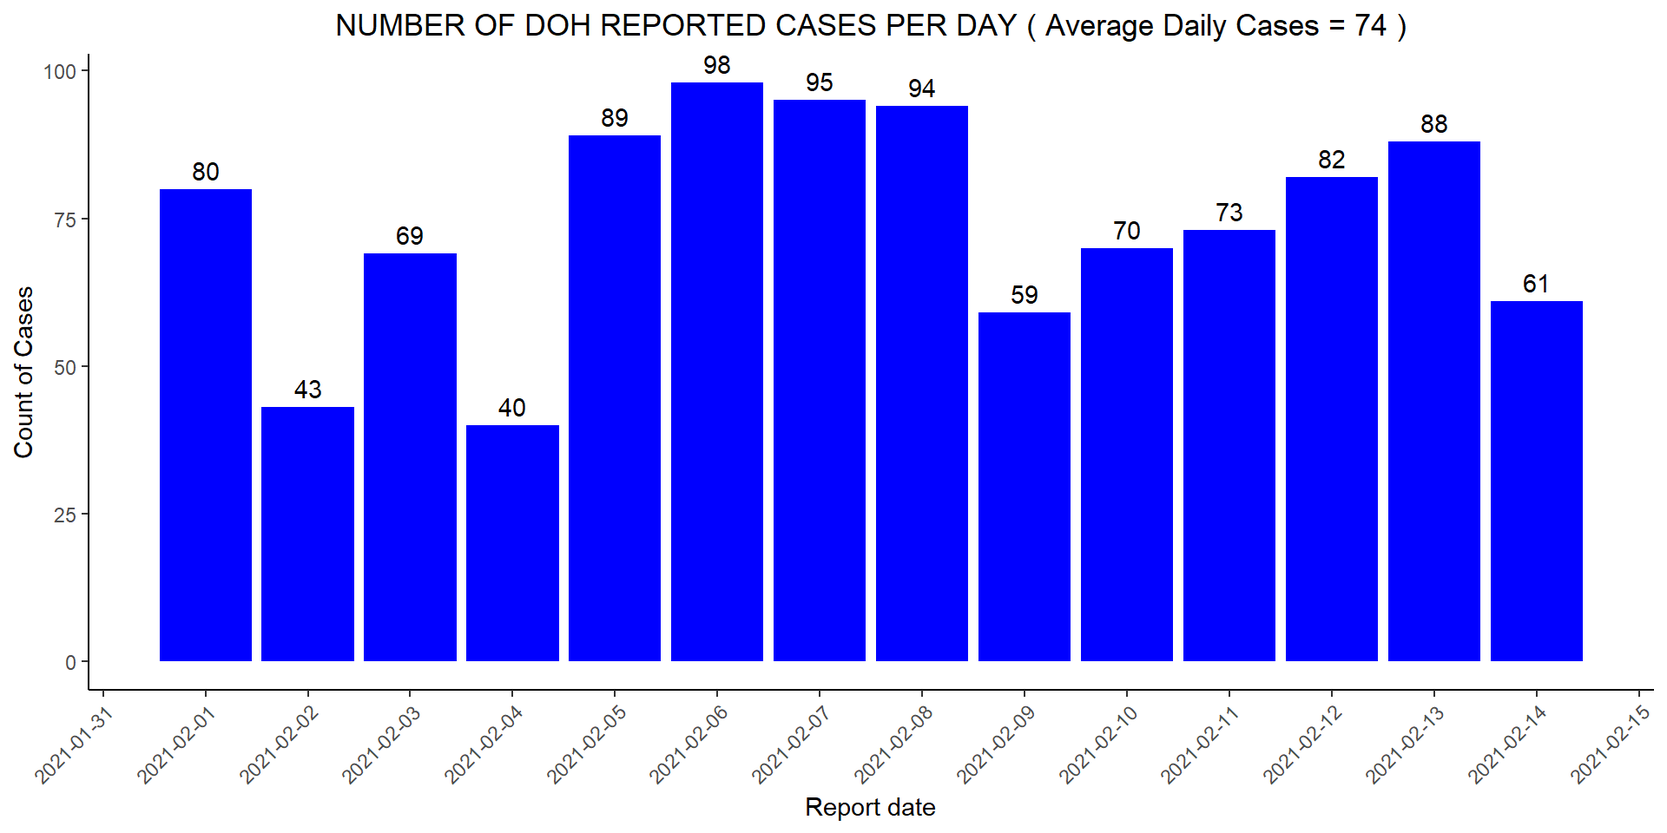
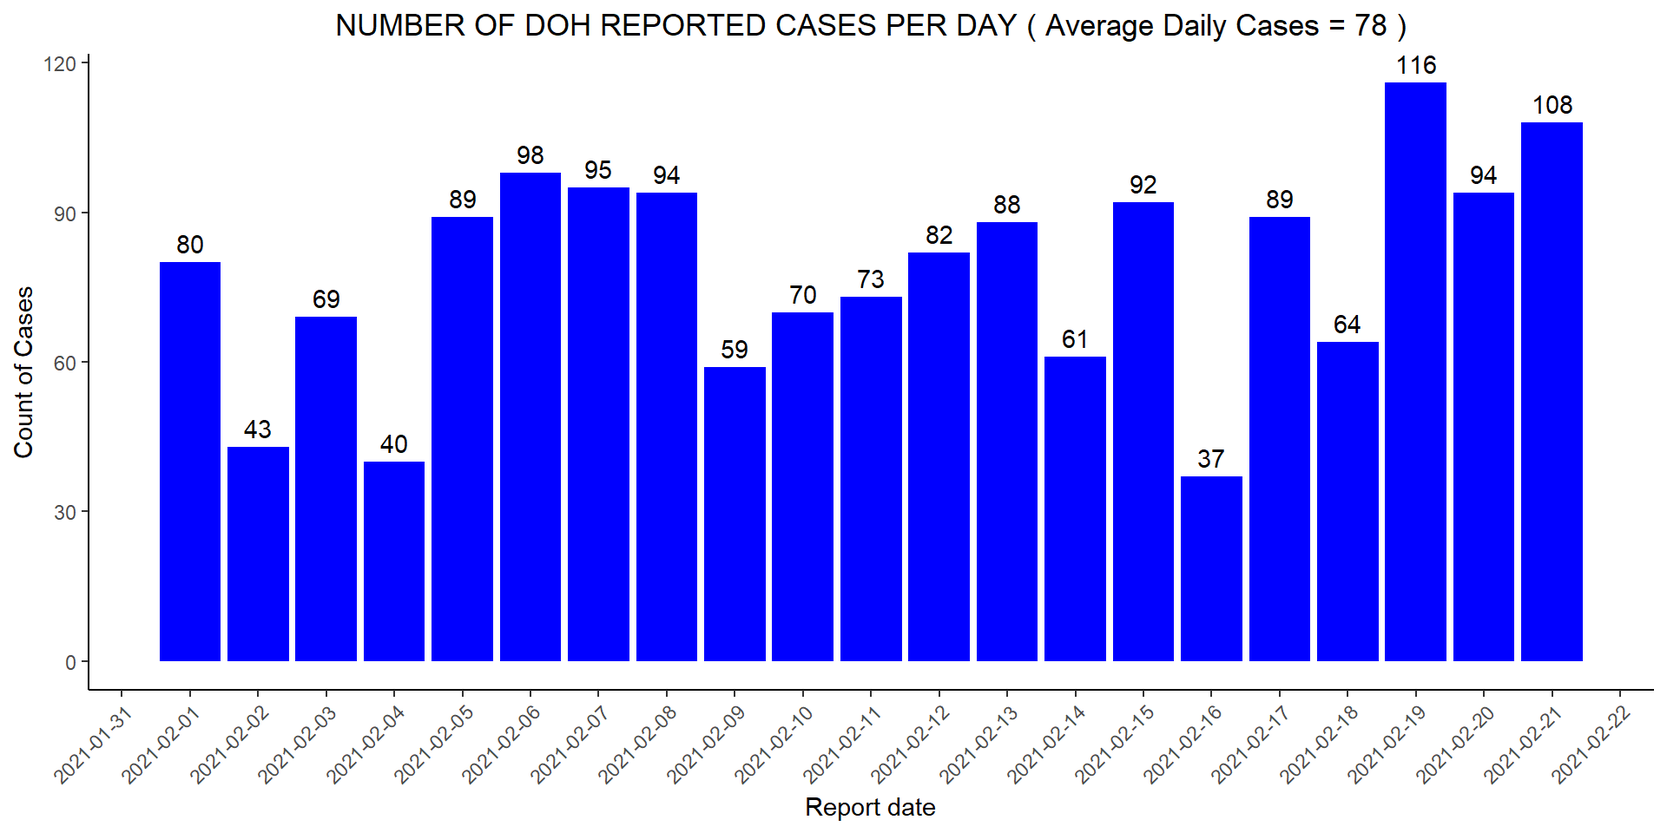
update

diff --git a/docs/index.html b/docs/index.html
@@ -407,62 +407,60 @@ div.tocify {
 <h2 class="tabset">Monitoring of Reported Cases</h2>
 <div id="daily-count" class="section level3">
 <h3>Daily Count</h3>
-<p>Last refreshed date : 02/22/2021 18:46:36</p>
+<p>Last refreshed date : 02/24/2021 09:17:45</p>
 <ul>
-<li>Total number of Reported Cases : 283
+<li>Total number of Reported Cases : 42
 <ul>
-<li>Total number of Endorsed Cases to Field Team: 149</li>
-<li>Total Number of Out of City Cases : 7</li>
-<li>Total Number of Already Visited by CESU : 6</li>
-<li>Total Number of Pending : 71
+<li>Total number of Endorsed Cases to Field Team: 0</li>
+<li>Total Number of Out of City Cases : 0</li>
+<li>Total Number of Already Visited by CESU : 0</li>
+<li>Total Number of Pending : 42
 <ul>
-<li>Confirmed cases : 4</li>
+<li>Confirmed cases : 0</li>
 <li>Probable cases : 0</li>
-<li>Suspect cases : 67</li>
+<li>Suspect cases : 42</li>
 </ul></li>
-<li>Total Number of Unable to contact : 41
+<li>Total Number of Unable to contact : 0
 <ul>
-<li>Total Number of Wrong number : 13</li>
-<li>Total Number of Cannot be reached : 17</li>
-<li>Total Number of Dropped call : 2</li>
-<li>Total Number of Wrong person : 1</li>
-<li>Total Number of Not answering the phone : 8</li>
+<li>Count of Wrong number : 0</li>
+<li>Total Number of Cannot be reached : 0</li>
+<li>Total Number of Dropped call : 0</li>
+<li>Total Number of Wrong person : 0</li>
+<li>Total Number of Not answering the phone : 0</li>
 </ul></li>
-<li>Total number of confirmed cases with no number indicated: 1</li>
+<li>Total number of confirmed cases with no number indicated: 0</li>
 </ul></li>
 </ul>
 <p>Below is the cumulative count of reported cases today distributed by patient classification</p>
-<div id="htmlwidget-8755db3c0fa2aa84a51e" style="width:100%;height:auto;" class="datatables html-widget"></div>
-<script type="application/json" data-for="htmlwidget-8755db3c0fa2aa84a51e">{"x":{"filter":"bottom","filterHTML":"<tr>\n  <td data-type=\"character\" style=\"vertical-align: top;\">\n    <div style=\"margin-bottom: auto;\">\n      <input type=\"text\" placeholder=\"All\" style=\"width: 100%;\"/>\n    <\/div>\n  <\/td>\n  <td data-type=\"integer\" style=\"vertical-align: top;\">\n    <div style=\"margin-bottom: auto;\">\n      <input type=\"text\" placeholder=\"All\" style=\"width: 100%;\"/>\n    <\/div>\n    <div style=\"display: none; position: absolute; width: 200px;\">\n      <div data-min=\"112\" data-max=\"171\"><\/div>\n      <span style=\"float: left;\"><\/span>\n      <span style=\"float: right;\"><\/span>\n    <\/div>\n  <\/td>\n<\/tr>","data":[["CONFIRMED","SUSPECT"],[171,112]],"container":"<table class=\"display\">\n  <thead>\n    <tr>\n      <th>Patient classification<\/th>\n      <th>Count<\/th>\n    <\/tr>\n  <\/thead>\n<\/table>","options":{"autoWitdh":true,"columnDefs":[{"className":"dt-center","targets":"_all"}],"order":[],"autoWidth":false,"orderClasses":false}},"evals":[],"jsHooks":[]}</script>
+<div id="htmlwidget-13a20751667602078dd9" style="width:100%;height:auto;" class="datatables html-widget"></div>
+<script type="application/json" data-for="htmlwidget-13a20751667602078dd9">{"x":{"filter":"bottom","filterHTML":"<tr>\n  <td data-type=\"disabled\" style=\"vertical-align: top;\">\n    <div style=\"margin-bottom: auto;\">\n      <input type=\"text\" placeholder=\"All\" style=\"width: 100%;\"/>\n    <\/div>\n  <\/td>\n  <td data-type=\"disabled\" style=\"vertical-align: top;\">\n    <div style=\"margin-bottom: auto;\">\n      <input type=\"text\" placeholder=\"All\" style=\"width: 100%;\"/>\n    <\/div>\n  <\/td>\n<\/tr>","data":[["SUSPECT"],[42]],"container":"<table class=\"display\">\n  <thead>\n    <tr>\n      <th>Patient classification<\/th>\n      <th>Count<\/th>\n    <\/tr>\n  <\/thead>\n<\/table>","options":{"autoWitdh":true,"columnDefs":[{"className":"dt-center","targets":"_all"}],"order":[],"autoWidth":false,"orderClasses":false}},"evals":[],"jsHooks":[]}</script>
 </div>
 <div id="cumulative-count" class="section level3">
 <h3>Cumulative Count</h3>
 <ul>
-<li>Total number of Reported Cases : 1070
+<li>Total number of Reported Cases : 1318
 <ul>
-<li>Total number of Endorsed Cases to Field Team: 431</li>
-<li>Total Number of Out of City Cases : 36</li>
-<li>Total Number of Already Visited by CESU : 45</li>
-<li>Total Number of Pending : 98
-<ul>
-<li>Confirmed cases : 4</li>
+<li>Number of confirmed Cases ‘Endorsed to Field Team’ : 491</li>
+<li>Number of ‘Out of City’ confirmed Cases : 44</li>
+<li>Number of confirmed cases ‘Already Visited by CESU’ : 50</li>
+<li>Number of Pending : 108</li>
+<li>Confirmed cases : 8</li>
 <li>Probable cases : 0</li>
-<li>Suspect cases : 94</li>
-</ul></li>
-<li>Total Number of Unable to contact : 187
+<li>Suspect cases : 100</li>
+<li>Total Number of Unable to contact : 231
 <ul>
-<li>Total Number of Wrong number : 59</li>
-<li>Total Number of Cannot be reached : 75</li>
+<li>Count of Wrong number : 75</li>
+<li>Total Number of Cannot be reached : 96</li>
 <li>Total Number of Dropped call : 3</li>
-<li>Total Number of Wrong person : 9</li>
-<li>Total Number of Not answering the phone : 40</li>
+<li>Total Number of Wrong person : 12</li>
+<li>Total Number of Not answering the phone : 44</li>
 </ul></li>
-<li>Total number of confirmed cases with no number indicated: 15</li>
+<li>Total number of confirmed cases with no number indicated: 22</li>
 </ul></li>
 </ul>
 <p>Below is the cumulative count of cases distributed by patient classification since January 17, 2021</p>
-<div id="htmlwidget-8493ac3173c5b59b62d0" style="width:100%;height:auto;" class="datatables html-widget"></div>
-<script type="application/json" data-for="htmlwidget-8493ac3173c5b59b62d0">{"x":{"filter":"bottom","filterHTML":"<tr>\n  <td data-type=\"character\" style=\"vertical-align: top;\">\n    <div style=\"margin-bottom: auto;\">\n      <input type=\"text\" placeholder=\"All\" style=\"width: 100%;\"/>\n    <\/div>\n  <\/td>\n  <td data-type=\"integer\" style=\"vertical-align: top;\">\n    <div style=\"margin-bottom: auto;\">\n      <input type=\"text\" placeholder=\"All\" style=\"width: 100%;\"/>\n    <\/div>\n    <div style=\"display: none; position: absolute; width: 200px;\">\n      <div data-min=\"3\" data-max=\"543\"><\/div>\n      <span style=\"float: left;\"><\/span>\n      <span style=\"float: right;\"><\/span>\n    <\/div>\n  <\/td>\n<\/tr>","data":[["CONFIRMED","PROBABLE","SUSPECT"],[543,3,524]],"container":"<table class=\"display\">\n  <thead>\n    <tr>\n      <th>Patient classification<\/th>\n      <th>Count<\/th>\n    <\/tr>\n  <\/thead>\n<\/table>","options":{"autoWitdh":true,"columnDefs":[{"className":"dt-center","targets":"_all"}],"order":[],"autoWidth":false,"orderClasses":false}},"evals":[],"jsHooks":[]}</script>
+<div id="htmlwidget-212dfb02c5d263618b0f" style="width:100%;height:auto;" class="datatables html-widget"></div>
+<script type="application/json" data-for="htmlwidget-212dfb02c5d263618b0f">{"x":{"filter":"bottom","filterHTML":"<tr>\n  <td data-type=\"character\" style=\"vertical-align: top;\">\n    <div style=\"margin-bottom: auto;\">\n      <input type=\"text\" placeholder=\"All\" style=\"width: 100%;\"/>\n    <\/div>\n  <\/td>\n  <td data-type=\"integer\" style=\"vertical-align: top;\">\n    <div style=\"margin-bottom: auto;\">\n      <input type=\"text\" placeholder=\"All\" style=\"width: 100%;\"/>\n    <\/div>\n    <div style=\"display: none; position: absolute; width: 200px;\">\n      <div data-min=\"3\" data-max=\"668\"><\/div>\n      <span style=\"float: left;\"><\/span>\n      <span style=\"float: right;\"><\/span>\n    <\/div>\n  <\/td>\n<\/tr>","data":[["CONFIRMED","PROBABLE","SUSPECT"],[647,3,668]],"container":"<table class=\"display\">\n  <thead>\n    <tr>\n      <th>Patient classification<\/th>\n      <th>Count<\/th>\n    <\/tr>\n  <\/thead>\n<\/table>","options":{"autoWitdh":true,"columnDefs":[{"className":"dt-center","targets":"_all"}],"order":[],"autoWidth":false,"orderClasses":false}},"evals":[],"jsHooks":[]}</script>
 </div>
 </div>
 <div id="output-of-phone-contact-tracers" class="section level2 tabset">
@@ -470,14 +468,14 @@ div.tocify {
 <div id="confirmed-cases-per-barangay" class="section level3">
 <h3>Confirmed cases per barangay</h3>
 <p>Cumulative number of Covid-19 cases per Barangay</p>
-<div id="htmlwidget-6292c889ea901dce6831" style="width:100%;height:auto;" class="datatables html-widget"></div>
-<script type="application/json" data-for="htmlwidget-6292c889ea901dce6831">{"x":{"filter":"bottom","filterHTML":"<tr>\n  <td data-type=\"character\" style=\"vertical-align: top;\">\n    <div style=\"margin-bottom: auto;\">\n      <input type=\"text\" placeholder=\"All\" style=\"width: 100%;\"/>\n    <\/div>\n  <\/td>\n  <td data-type=\"integer\" style=\"vertical-align: top;\">\n    <div style=\"margin-bottom: auto;\">\n      <input type=\"text\" placeholder=\"All\" style=\"width: 100%;\"/>\n    <\/div>\n    <div style=\"display: none; position: absolute; width: 200px;\">\n      <div data-min=\"1\" data-max=\"66\"><\/div>\n      <span style=\"float: left;\"><\/span>\n      <span style=\"float: right;\"><\/span>\n    <\/div>\n  <\/td>\n<\/tr>","data":[["BATASAN HILLS","BAHAY TORO","UP CAMPUS","COMMONWEALTH","BRGY. UP CAMPUS","CULIAT","PAYATAS","BAGONG SILANGAN","HOLY SPIRIT","TANDANG SORA","FAIRVIEW","PASONG TAMO","TALIPAPA","CAMP AGUINALDO","KAUNLARAN","SANTA MONICA","BAGONG LIPUNAN NG CRAME","BAGONG PAG-ASA","BAGUMBAYAN","MATANDANG BALARA","SOUTH TRIANGLE","SOCORRO","GREATER LAGRO","KALIGAYAHAN","MARILAG","PANSOL","SAN ROQUE","VALENCIA","SAN BARTOLOME","RAMON MAGSAYSAY","SAUYO","TATALON","UGONG NORTE","PROJECT 6","PINYAHAN","SANTO DOMINGO (MATALAHIB)","VETERANS VILLAGE","APOLONIO SAMSON","BAESA","BALINGASA","E. RODRIGUEZ","GULOD","KRUS NA LIGAS","NAGKAISANG NAYON","SAINT PETER","SAN ANTONIO","BRGY. PANSOL","NORTH FAIRVIEW","PALTOK","SAN VICENTE","SIKATUNA VILLAGE","ALICIA","BUNGAD","CENTRAL","DAMAYANG LAGI","DEL MONTE","PALIGSAHAN","PAYATAS B","SALVACION","SAN MARTIN DE PORRES","SANGANDAAN","SANTA TERESITA","BRGY. CULIAT","BRGY. KRUS NA LIGAS","DAMAYAN","LOYOLA HEIGHTS","MANRESA","MILAGROSA","NAYONG KANLURAN","SANTO CRISTO","BAGBAG","BAGONG PAG ASA","BRGY. BATASAN HILLS","BRGY. OLD BALARA","BRGY. SIKATUNA VILLAGE","EAST KAMIAS","ESCOPA 3","KAMUNING","NEW ERA (CONSTITUTION HILLS)","OLD BALARA","PAANG BUNDOK","ROXAS","SIENNA","STA.LUCIA","STA.MONICA","U.P. CAMPUS","UP VILLAGE","DAMAR","DIOQUINO ZOBEL","E.RODRIGUEZ","KALUSUGAN","KATIPUNAN","LIBIS","MAHARLIKA","MARIANA","MARIBLO","MASAGANA","NEW ERA","OBRERO","PAG-IBIG SA NAYON","PASONG PUTIK","PASONG PUTIK PROPER (PASONG PUTIK)","PINAGKAISAHAN","SACRED HEART","SAN ISIDRO LABRADOR","SAN JOSE","SANTA CRUZ","SANTA LUCIA","SILANGAN","STO. DOMINGO","VASRA","WEST FAIRVIEW",null,"BAGO BANTAY","BAGUMBUHAY","BALONG BATO","BAONG SILANGAN","BAYANIHAN","BOTOCAN","BRGY 171","BRGY. BAGO BANTAY","BRGY. BAGONG SILANGAN","BRGY. EAST FAIRVIEW","BRGY. HOLY SPIRIT","BRGY. LOYOLA HEIGHTS","BRGY. MATANDANG BALARA","BRGY. NAGKAISANG NAYON","BRGY. PANSOL BALARA","BRGY. PAYATAS","BRGY. PROJ. 7","BRGY. STA. TERESITA","BRGY. TATALON","BRGY. UP VILLAGE","BRGY. VETERANS","CAMO","CAPRI","CUBAO","DONA AURORA","DONA IMELDA","EAST FAIRVIEW","ESCOPA","ESCOPA 4","GRACEVILLE","IMMACULATE CONCEPCION","LAGRO","LOURDES","MALAYA","MASAMBONG","NOVALICHES","NOVALICHES PROPER","PROJECT 3","QUIRINO 2-B","QUIRINO 2-C","SAN AGUSTIN","SAN FRANCISCO DEL MONTE","SAN ISIDRO","SAN JOSE DEL MONTE","SANTO NIÑO","STA MONICA","STA TERESITA","STA. MONICA","STO. CRISTO","TEACHER'S VILLAGE","TEACHERS VILLAGE WEST","U.P. VILLAGE","UNANG SIGAW","UP DILIMAN","WEST KAMIAS","WEST TRIANGLE"],[66,52,50,45,41,28,26,23,23,23,22,21,20,19,18,15,14,14,14,14,14,13,12,12,12,12,12,12,11,10,10,10,10,9,8,8,8,7,7,7,7,7,7,7,7,7,6,6,6,6,6,5,5,5,5,5,5,5,5,5,5,5,4,4,4,4,4,4,4,4,3,3,3,3,3,3,3,3,3,3,3,3,3,3,3,3,3,2,2,2,2,2,2,2,2,2,2,2,2,2,2,2,2,2,2,2,2,2,2,2,2,2,2,1,1,1,1,1,1,1,1,1,1,1,1,1,1,1,1,1,1,1,1,1,1,1,1,1,1,1,1,1,1,1,1,1,1,1,1,1,1,1,1,1,1,1,1,1,1,1,1,1,1,1,1,1,1,1,1]],"container":"<table class=\"display\">\n  <thead>\n    <tr>\n      <th>Barangay<\/th>\n      <th>Count<\/th>\n    <\/tr>\n  <\/thead>\n<\/table>","options":{"autoWitdh":true,"columnDefs":[{"className":"dt-center","targets":"_all"}],"order":[],"autoWidth":false,"orderClasses":false}},"evals":[],"jsHooks":[]}</script>
+<div id="htmlwidget-14de71ccc61e9a791778" style="width:100%;height:auto;" class="datatables html-widget"></div>
+<script type="application/json" data-for="htmlwidget-14de71ccc61e9a791778">{"x":{"filter":"bottom","filterHTML":"<tr>\n  <td data-type=\"character\" style=\"vertical-align: top;\">\n    <div style=\"margin-bottom: auto;\">\n      <input type=\"text\" placeholder=\"All\" style=\"width: 100%;\"/>\n    <\/div>\n  <\/td>\n  <td data-type=\"integer\" style=\"vertical-align: top;\">\n    <div style=\"margin-bottom: auto;\">\n      <input type=\"text\" placeholder=\"All\" style=\"width: 100%;\"/>\n    <\/div>\n    <div style=\"display: none; position: absolute; width: 200px;\">\n      <div data-min=\"1\" data-max=\"74\"><\/div>\n      <span style=\"float: left;\"><\/span>\n      <span style=\"float: right;\"><\/span>\n    <\/div>\n  <\/td>\n<\/tr>","data":[["BATASAN HILLS","BAHAY TORO","UP CAMPUS","COMMONWEALTH","BRGY. UP CAMPUS","CULIAT","HOLY SPIRIT","TANDANG SORA","PASONG TAMO","PAYATAS","BAGONG SILANGAN","FAIRVIEW","KAUNLARAN","CAMP AGUINALDO","SAN BARTOLOME","TALIPAPA","MATANDANG BALARA","KALIGAYAHAN","BAGONG LIPUNAN NG CRAME","BAGUMBAYAN","SANTA MONICA","BAGONG PAG-ASA","SOCORRO","SOUTH TRIANGLE","GULOD","PINYAHAN","GREATER LAGRO","SAN ROQUE","MARILAG","PANSOL","SAN ANTONIO","SAUYO","TATALON","UGONG NORTE","VALENCIA","SAINT PETER","BAESA","PROJECT 6","SALVACION","VETERANS VILLAGE","APOLONIO SAMSON","BALINGASA","DEL MONTE","NAGKAISANG NAYON","NORTH FAIRVIEW","RAMON MAGSAYSAY","SANTA TERESITA","KRUS NA LIGAS","PALTOK","SANTO DOMINGO (MATALAHIB)","BAGBAG","E. RODRIGUEZ","LOYOLA HEIGHTS","MASAMBONG","PALIGSAHAN","SANGANDAAN","SIKATUNA VILLAGE","ALICIA","BRGY. PANSOL","CENTRAL","NAYONG KANLURAN","PAYATAS B","SAN MARTIN DE PORRES","SAN VICENTE","BUNGAD","DAMAYANG LAGI","MARIBLO","PASONG PUTIK PROPER (PASONG PUTIK)","ROXAS","SAN AGUSTIN","STA MONICA","BAGONG PAG ASA","BRGY. CULIAT","BRGY. KRUS NA LIGAS","DAMAYAN","MANRESA","MILAGROSA","NEW ERA","OLD BALARA","PASONG PUTIK","SANTO CRISTO","SIENNA","STA.MONICA","U.P. CAMPUS","UP VILLAGE",null,"BRGY. BATASAN HILLS","BRGY. OLD BALARA","BRGY. SIKATUNA VILLAGE","ESCOPA 3","KAMUNING","MARIANA","NEW ERA (CONSTITUTION HILLS)","PAANG BUNDOK","SACRED HEART","SAN JOSE","STA LUCIA","STA.LUCIA","WEST FAIRVIEW","BOTOCAN","CAPRI","DAMAR","DIOQUINO ZOBEL","DOÑA IMELDA","E.RODRIGUEZ","EAST FAIRVIEW","EAST KAMIAS","KALUSUGAN","KATIPUNAN","LIBIS","MAHARLIKA","MASAGANA","NOVALICHES PROPER","NS AMORANTO","OBRERO","OLD BALARA Q.C","PAG-IBIG SA NAYON","PINAGKAISAHAN","SAN ISIDRO LABRADOR","SANTA CRUZ","SANTA LUCIA","SILANGAN","STO. DOMINGO","TEACHERS VILLAGE WEST","U.P. VILLAGE","VASRA","WEST KAMIAS","WEST TRIANGLE","BAGO BANTAY","BAGONG PAG ASA Q.C","BAGONG SILANGAN Q.C","BAGUMBUHAY","BALONG BATO","BAONG SILANGAN","BAYANIHAN","BRGY 171","BRGY. BAGO BANTAY","BRGY. BAGONG SILANGAN","BRGY. EAST FAIRVIEW","BRGY. HOLY SPIRIT","BRGY. LOYOLA HEIGHTS","BRGY. MATANDANG BALARA","BRGY. NAGKAISANG NAYON","BRGY. PANSOL BALARA","BRGY. PAYATAS","BRGY. PROJ. 7","BRGY. STA. TERESITA","BRGY. TATALON","BRGY. UP VILLAGE","BRGY. VETERANS","CAMO","CUBAO","DONA AURORA","DONA IMELDA","DOÑA JOSEFA","ESCOPA","ESCOPA 4","GRACEVILLE","IMMACULATE CONCEPCION","LAGRO","LOURDES","MALAYA","MATANDANG BALARA Q.C","NOVALICHES","OLD CAPITOL SITE","PAYATAS A","PROJECT 3","QUIRINO 2-B","QUIRINO 2-C","SAINT IGNATIUS","SAN FRANCISCO DEL MONTE","SAN ISIDRO","SAN JOSE DEL MONTE","SANTO NIÑO","STA TERESITA","STA. CRUZ","STA. MONICA","STO. CRISTO","TALAYAN","TEACHER'S VILLAGE","TEACHER'S VILLAGE, WEST","TEACHERS VILLAGE","UNANG SIGAW","UP DILIMAN"],[74,62,60,53,41,35,31,30,28,26,24,24,22,21,21,21,19,18,16,16,16,15,15,15,14,14,13,13,12,12,12,12,12,12,12,11,10,10,10,10,9,9,9,9,9,9,9,8,8,8,7,7,7,7,7,7,7,6,6,6,6,6,6,6,5,5,5,5,5,5,5,4,4,4,4,4,4,4,4,4,4,4,4,4,4,4,3,3,3,3,3,3,3,3,3,3,3,3,3,2,2,2,2,2,2,2,2,2,2,2,2,2,2,2,2,2,2,2,2,2,2,2,2,2,2,2,2,2,1,1,1,1,1,1,1,1,1,1,1,1,1,1,1,1,1,1,1,1,1,1,1,1,1,1,1,1,1,1,1,1,1,1,1,1,1,1,1,1,1,1,1,1,1,1,1,1,1,1,1,1,1,1,1,1]],"container":"<table class=\"display\">\n  <thead>\n    <tr>\n      <th>Barangay<\/th>\n      <th>Count<\/th>\n    <\/tr>\n  <\/thead>\n<\/table>","options":{"autoWitdh":true,"columnDefs":[{"className":"dt-center","targets":"_all"}],"order":[],"autoWidth":false,"orderClasses":false}},"evals":[],"jsHooks":[]}</script>
 </div>
 <div id="type-of-exposure" class="section level3">
 <h3>Type of exposure</h3>
 <p>Top 10 Covid-19 Cases exposure collected by phone tracers for past 14 days</p>
-<div id="htmlwidget-edf46539b339c2e78721" style="width:100%;height:auto;" class="datatables html-widget"></div>
-<script type="application/json" data-for="htmlwidget-edf46539b339c2e78721">{"x":{"filter":"bottom","filterHTML":"<tr>\n  <td data-type=\"character\" style=\"vertical-align: top;\">\n    <div style=\"margin-bottom: auto;\">\n      <input type=\"text\" placeholder=\"All\" style=\"width: 100%;\"/>\n    <\/div>\n  <\/td>\n  <td data-type=\"integer\" style=\"vertical-align: top;\">\n    <div style=\"margin-bottom: auto;\">\n      <input type=\"text\" placeholder=\"All\" style=\"width: 100%;\"/>\n    <\/div>\n    <div style=\"display: none; position: absolute; width: 200px;\">\n      <div data-min=\"1\" data-max=\"215\"><\/div>\n      <span style=\"float: left;\"><\/span>\n      <span style=\"float: right;\"><\/span>\n    <\/div>\n  <\/td>\n<\/tr>","data":[["SUSPECT NOT FOR BT","HOUSEHOLD","WORKPLACE","HEALTH FACILITY / HOSPITALS","MARKET","TRANSPORTATION","VISITATION","MALL","NEIGHBORS","FOOD ESTABLISHMENT","DELIVERIES","RELIGIOUS GATHERINGS","BIRTHDAY","SCHOOL"],[215,172,128,68,32,26,23,11,11,10,9,3,2,1]],"container":"<table class=\"display\">\n  <thead>\n    <tr>\n      <th>Exposure type<\/th>\n      <th>Count<\/th>\n    <\/tr>\n  <\/thead>\n<\/table>","options":{"autoWitdh":true,"columnDefs":[{"className":"dt-center","targets":"_all"}],"order":[],"autoWidth":false,"orderClasses":false}},"evals":[],"jsHooks":[]}</script>
+<div id="htmlwidget-6c4eb4202601b74143d2" style="width:100%;height:auto;" class="datatables html-widget"></div>
+<script type="application/json" data-for="htmlwidget-6c4eb4202601b74143d2">{"x":{"filter":"bottom","filterHTML":"<tr>\n  <td data-type=\"character\" style=\"vertical-align: top;\">\n    <div style=\"margin-bottom: auto;\">\n      <input type=\"text\" placeholder=\"All\" style=\"width: 100%;\"/>\n    <\/div>\n  <\/td>\n  <td data-type=\"integer\" style=\"vertical-align: top;\">\n    <div style=\"margin-bottom: auto;\">\n      <input type=\"text\" placeholder=\"All\" style=\"width: 100%;\"/>\n    <\/div>\n    <div style=\"display: none; position: absolute; width: 200px;\">\n      <div data-min=\"1\" data-max=\"293\"><\/div>\n      <span style=\"float: left;\"><\/span>\n      <span style=\"float: right;\"><\/span>\n    <\/div>\n  <\/td>\n<\/tr>","data":[["SUSPECT NOT FOR BT","HOUSEHOLD","WORKPLACE","HEALTH FACILITY / HOSPITALS","MARKET","TRANSPORTATION","VISITATION","MALL","DELIVERIES","NEIGHBORS","FOOD ESTABLISHMENT","RELIGIOUS GATHERINGS","BIRTHDAY","SCHOOL"],[293,206,153,83,36,34,26,15,13,13,11,3,2,1]],"container":"<table class=\"display\">\n  <thead>\n    <tr>\n      <th>Exposure type<\/th>\n      <th>Count<\/th>\n    <\/tr>\n  <\/thead>\n<\/table>","options":{"autoWitdh":true,"columnDefs":[{"className":"dt-center","targets":"_all"}],"order":[],"autoWidth":false,"orderClasses":false}},"evals":[],"jsHooks":[]}</script>
 </div>
 </div>
 

diff --git a/docs/Linelist101.html b/docs/Linelist101.html
@@ -394,52 +394,52 @@ div.tocify {
 <p><img src="Linelist101_files/figure-html/unnamed-chunk-1-1.png" width="960" /></p>
 <div id="report-details" class="section level2">
 <h2>REPORT DETAILS</h2>
-<p>DATE OF REPORT : 2021-02-01 - 2021-02-14</p>
+<p>DATE OF REPORT : 2021-02-01 - 2021-02-21</p>
 <ul>
-<li><p>TOTAL NUMBER OF REPORTED CASE: 1041</p>
+<li><p>TOTAL NUMBER OF REPORTED CASE: 1641</p>
 <ul>
-<li>Total number of cases found on CESU linelist: 899
+<li>Total number of cases found on CESU linelist: 1401
 <ul>
-<li>Number of verified cases: 801</li>
-<li>Number of unverified cases: 98
+<li>Number of verified cases: 1247</li>
+<li>Number of unverified cases: 154
 <ul>
 <li>Tagged as Investigated by District NPC encoders:
 <ul>
-<li>Number of cases already field traced: 20</li>
-<li>Number of cases endorsed to other city: 12</li>
-<li>Number of cases endorsed to other district: 1</li>
+<li>Number of cases already field traced: 15</li>
+<li>Number of cases endorsed to other city: 3</li>
+<li>Number of cases endorsed to other district: 3</li>
 <li>Number of cases tagged as non-resident: 1</li>
 <li>Number of cases unable to locate: 2</li>
-<li>Number of cases without remark: 4</li>
-<li>Number of duplicate cases: 1</li>
+<li>Number of cases without remark: 10</li>
+<li>Number of duplicate cases: 2</li>
 </ul></li>
-<li>Count of cases still in under field investigation : 57</li>
+<li>Count of cases still in under field investigation : 85</li>
 </ul></li>
 </ul></li>
 </ul></li>
-<li><p>Balance : 142</p>
+<li><p>Balance : 240</p>
 <ul>
-<li>Total number of cases found on New Priority Case repository: 120
+<li>Total number of cases found on New Priority Case repository: 218
 <ul>
-<li>Count of cases tagged as out of city area : 37</li>
+<li>Count of cases tagged as out of city area : 67</li>
 <li>Other tagging:
 <ul>
-<li>suspect pending: 6</li>
+<li>suspect pending: 11</li>
 <li>Already in CESU line list: 3</li>
-<li>Unable to contact: 62</li>
-<li>Count of cases endorsed to field team: 66
+<li>Unable to contact: 85</li>
+<li>Count of cases endorsed to field team: 122
 <ul>
 <li>Tagged as Investigated by District NPC encoders:
 <ul>
-<li>Number of cases already field traced: 10</li>
-<li>Number of cases endorsed to other city: 6</li>
-<li>Number of cases endorsed to other district: 1</li>
-<li>Number of cases tagged as non-resident: 8</li>
-<li>Number of cases unable to locate: 11</li>
-<li>Number of cases without remark: 7</li>
+<li>Number of cases already field traced: 24</li>
+<li>Number of cases endorsed to other city: 13</li>
+<li>Number of cases endorsed to other district: 3</li>
+<li>Number of cases tagged as non-resident: 10</li>
+<li>Number of cases unable to locate: 14</li>
+<li>Number of cases without remark: 10</li>
 <li>Number of duplicate cases: 0</li>
 </ul></li>
-<li>Count of on-going field investigation : 22</li>
+<li>Count of on-going field investigation : 47</li>
 </ul></li>
 </ul></li>
 </ul></li>

diff --git a/docs/CCT.html b/docs/CCT.html
@@ -14,7 +14,7 @@
 <title>Community Contact tracing</title>
 
 <script src="site_libs/header-attrs-2.7/header-attrs.js"></script>
-<script src="site_libs/jquery-1.11.3/jquery.min.js"></script>
+<script src="site_libs/jquery-3.5.1/jquery.min.js"></script>
 <meta name="viewport" content="width=device-width, initial-scale=1" />
 <link href="site_libs/bootstrap-3.3.5/css/bootstrap.min.css" rel="stylesheet" />
 <script src="site_libs/bootstrap-3.3.5/js/bootstrap.min.js"></script>
@@ -35,6 +35,14 @@
 <script src="site_libs/navigation-1.1/tabsets.js"></script>
 <link href="site_libs/highlightjs-9.12.0/default.css" rel="stylesheet" />
 <script src="site_libs/highlightjs-9.12.0/highlight.js"></script>
+<script src="site_libs/htmlwidgets-1.5.3/htmlwidgets.js"></script>
+<link href="site_libs/datatables-css-0.0.0/datatables-crosstalk.css" rel="stylesheet" />
+<script src="site_libs/datatables-binding-0.17/datatables.js"></script>
+<link href="site_libs/dt-core-1.10.20/css/jquery.dataTables.min.css" rel="stylesheet" />
+<link href="site_libs/dt-core-1.10.20/css/jquery.dataTables.extra.css" rel="stylesheet" />
+<script src="site_libs/dt-core-1.10.20/js/jquery.dataTables.min.js"></script>
+<link href="site_libs/crosstalk-1.1.1/css/crosstalk.css" rel="stylesheet" />
+<script src="site_libs/crosstalk-1.1.1/js/crosstalk.min.js"></script>
 <link href="site_libs/font-awesome-5.1.0/css/all.css" rel="stylesheet" />
 <link href="site_libs/font-awesome-5.1.0/css/v4-shims.css" rel="stylesheet" />
 
@@ -395,7 +403,8 @@ div.tocify {
 </div>
 <div id="performance" class="section level2">
 <h2>Performance</h2>
-<p>performance page</p>
+<div id="htmlwidget-31bb0ce82ece19128ef2" style="width:100%;height:auto;" class="datatables html-widget"></div>
+<script type="application/json" data-for="htmlwidget-31bb0ce82ece19128ef2">{"x":{"filter":"none","data":[["2021-02-24","2021-02-23","2021-02-22","2021-02-21","2021-02-20","2021-02-19","2021-02-18","2021-02-17"],[1,8,4,0,5,1,3,0],[20,961,591,6,269,1081,484,316],[14,277,174,33,191,339,133,56],[1,31,10,2,18,38,17,1],[0,65,18,14,43,56,26,0],[0,19,3,7,1,4,0,0],[36,1361,800,62,527,1519,663,373]],"container":"<table class=\"cell-border stripe\">\n  <thead>\n    <tr>\n      <th>Report date<\/th>\n      <th>AS-Probable<\/th>\n      <th>AS-Suspect<\/th>\n      <th>Close contact<\/th>\n      <th>High risk<\/th>\n      <th>Suspect<\/th>\n      <th>Probable<\/th>\n      <th>Daily total<\/th>\n    <\/tr>\n  <\/thead>\n<\/table>","options":{"autoWitdh":true,"columnDefs":[{"className":"dt-center","targets":"_all"}],"order":[],"autoWidth":false,"orderClasses":false}},"evals":[],"jsHooks":[]}</script>
 </div>
 
 
